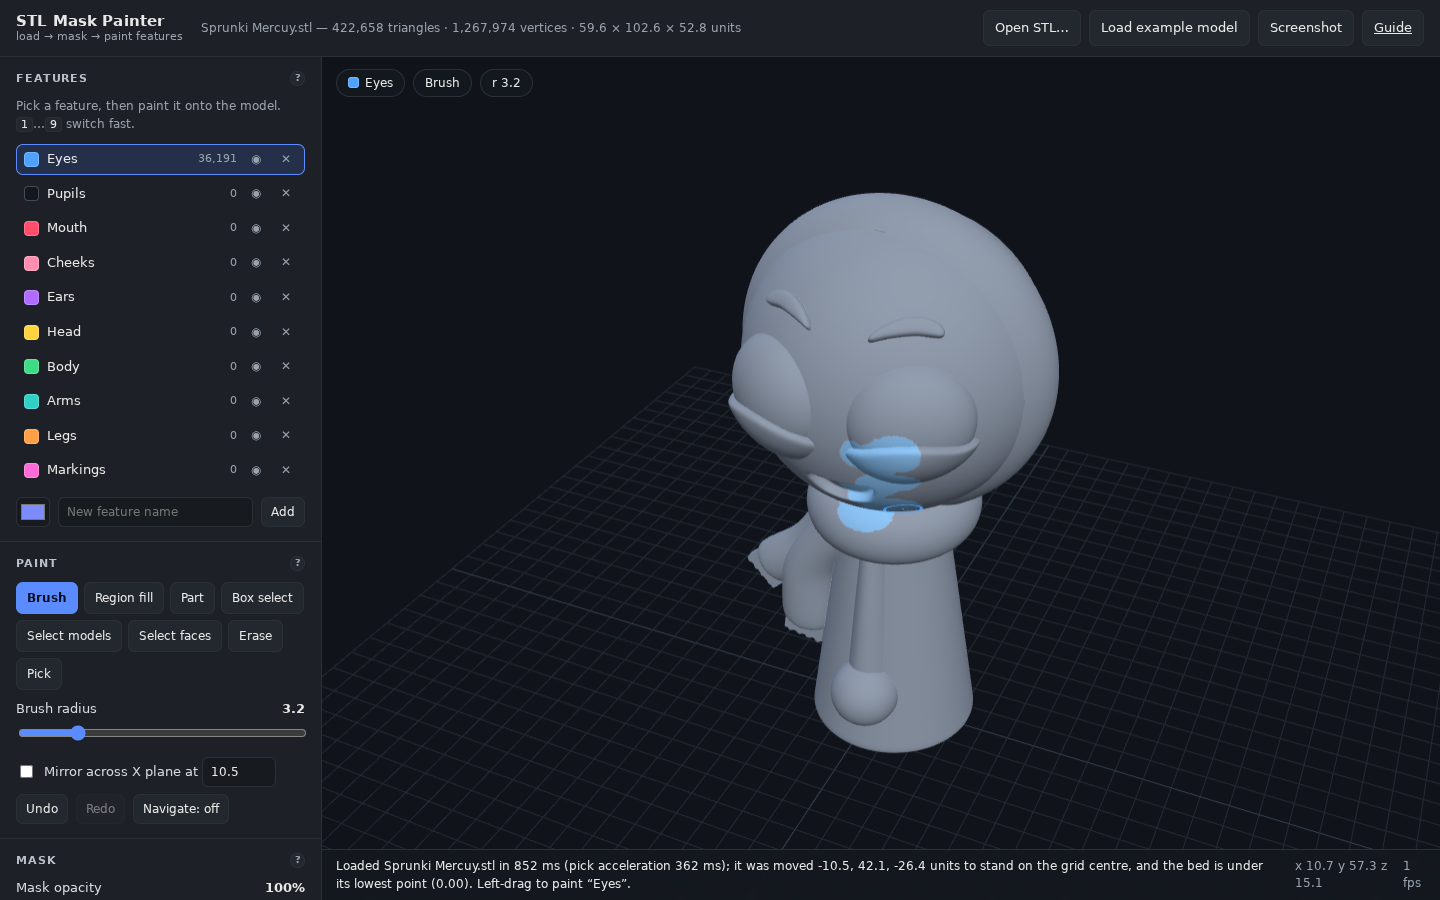
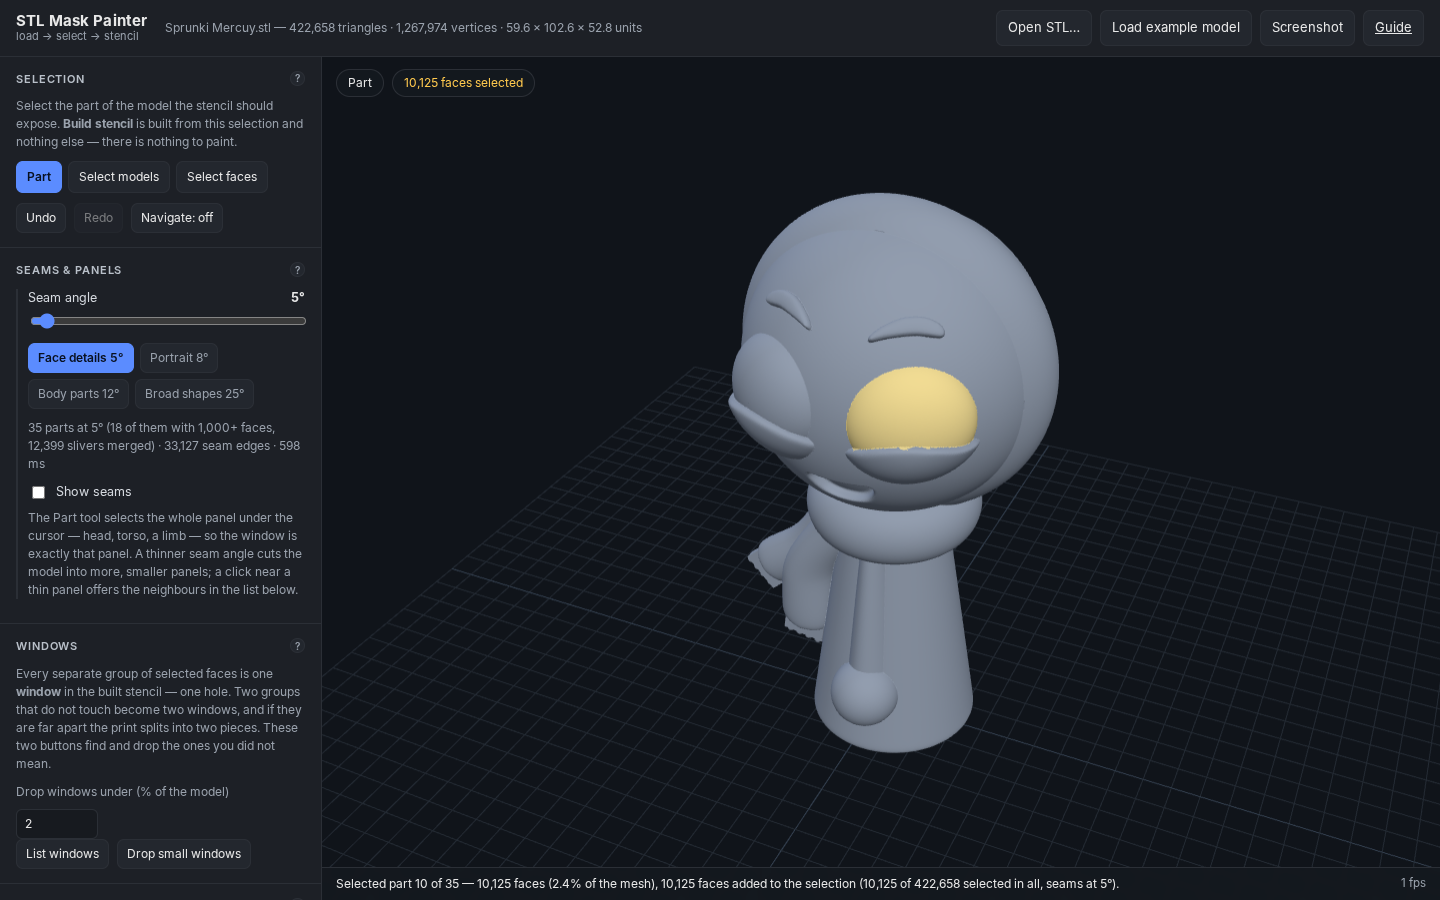
Stop Part drawing the face under the cursor, and refresh the front page
The report: "when in Part mode the triangles should not light up under mouse
movement". Part takes a whole panel, so a triangle outlined under a cursor that
is about to take a head or a limb describes a click Part is not going to make.
The hover outline belongs to the Select tool now: onPointerMove draws it there
and clears it in Part, and setTool clears it on the way into Part so one drawn
for the other tool cannot outlive it. Part keeps saying which panel it would
take — in the status bar and in the panel list its click opens.

The repository front page was showing the app as it was before the selection
redesign: mask-painter/screenshot.png was still the painting version, with the
FEATURES list, the brush and the palette, so the README showed an earlier app
while describing this one. It is now a screenshot of this code, taken headlessly
against the bundled model with a panel taken with Part, and the caption says so.

The documentation follows the new rule where it described the old one — the
selection panel in index.html, the selection sections of the guide, the manual's
drawing section, and VALIDATION's P1 and P5 — and the manual's window-trimming
example now quotes the numbers the current suite measures (two islands at 28.02
and 2.66 units, 261 corners released) instead of the paint version's dabs.

🤖 Generated with Codebuff

diff --git a/mask-painter/js/main.js b/mask-painter/js/main.js
@@ -389,9 +389,13 @@ function onPointerMove(e) {
   }
   const hit = viewer.pick(e.clientX, e.clientY);
   // The face under the cursor is outlined before the click, so "the face under the cursor" is
-  // something you can see rather than something you have to believe — and it is outlined whichever
-  // selection tool is in hand, because both of them are aiming at a face.
-  updateHoverFace(hit ? hit.faceIndex : null);
+  // something you can see rather than something you have to believe — while the Select tool is in
+  // hand, which is the tool that clicks a face. Part does not draw it: Part takes a whole panel, so
+  // one triangle lighting up under a cursor that is about to take a head or a limb describes the
+  // wrong click. Part says what it will take in the status line and in the panel list instead, and
+  // a tint left over from the Select tool is taken off screen rather than left to be misread.
+  if (state.tool === 'select') updateHoverFace(hit ? hit.faceIndex : null);
+  else clearHoverFace();
   el('statusCursor').textContent = hit
     ? state.tool === 'part'
       ? `face ${fmt(hit.faceIndex)} — click to select the panel it belongs to`
@@ -670,6 +674,9 @@ function syncToolButtons() {
  */
 function setTool(tool) {
   state.tool = tool === 'part' ? 'part' : 'select';
+  // The hover tint belongs to the Select tool, so it goes with it: a face outlined under a cursor
+  // in Part mode is a triangle lighting up for a tool that does not click triangles.
+  if (state.tool !== 'select') clearHoverFace();
   syncToolButtons();
   el('seamOptions').classList.toggle('on', state.tool === 'part');
   el('selectOptions').classList.toggle('on', state.tool === 'select');
@@ -877,6 +884,9 @@ function renderShellList() {
  * face. A file with one model has nothing to choose between, so nothing is highlighted there and
  * the panel says so instead — a whole-model highlight on a one-model file is a screenful of tint
  * that means nothing.
+ *
+ * Reached from the Select tool only (`onPointerMove`), because it is a *face* being judged: Part's
+ * unit is a panel, which the click itself reports.
  */
 function updateHoverFace(faceIndex) {
   if (!mask || faceIndex == null || faceIndex < 0 || faceIndex >= faceCountInHand()) {

diff --git a/mask-painter/help.html b/mask-painter/help.html
@@ -312,8 +312,12 @@
     at all.
   </p>
   <p>
-    The selection is drawn as an amber tint over the model's own surface, and the triangle under the
-    cursor is outlined white, so a click is judged before it happens. Above 150,000 selected faces
+    The selection is drawn as an amber tint over the model's own surface, and — while
+    <b>Select faces</b> is the tool in hand — the triangle under the cursor is outlined white, so a
+    click on a triangle is judged before it happens. <b>Part</b> draws nothing under the cursor: a
+    panel is not a triangle, so a triangle lighting up under a click that is about to take a head
+    or a limb would describe the wrong click. Part says which panel it will take in the status bar
+    and in <a href="#parts">the panel list</a> its click opens. Above 150,000 selected faces
     the tint is switched off rather than crawling — the panel's count line says so, and
     <a href="#tint">Selection tint</a> is where the overlay itself is turned down.
   </p>
@@ -585,7 +589,7 @@ Panels within 3.2 units of the click; click one to select it instead:
   <p>
     With <b>Select faces</b> (<kbd>Shift</kbd>+<kbd>S</kbd>), a click picks the one triangle under
     the cursor and nothing else. The face under the cursor is tinted white and the picked faces
-    yellow while this tool is up, so "click the face you can see" means something on a surface that is
+    amber while this tool is up, so "click the face you can see" means something on a surface that is
     otherwise one unbroken grey: turn on <b>Show seams</b> in the
     <a href="#parts">Part tool's</a> options as well if you want the panel boundaries drawn
     at the same time. This is the tool for geometry that is not a separate model — a spure, a

diff --git a/mask-painter/index.html b/mask-painter/index.html
@@ -56,8 +56,10 @@
           selection is not a tool's private state.
         </p>
         <p class="hint">
-          What is selected is tinted amber; the triangle under the cursor is outlined white, so a
-          click is judged before it happens. Click to select and again to unselect,
+          What is selected is tinted amber, and — while <b>Select faces</b> is the tool in hand — the
+          triangle under the cursor is outlined white, so a click on a triangle is judged before it
+          happens. <b>Part</b> outlines nothing: it takes the whole panel the click lands on, which
+          the status bar names. Click to select and again to unselect,
           <kbd>Shift</kbd>-click adds, <kbd>Alt</kbd>-click takes one off, <kbd>Ctrl</kbd>+<kbd>A</kbd>
           takes the lot, <kbd>Esc</kbd> clears it.
         </p>

diff --git a/mask-painter/README.md b/mask-painter/README.md
@@ -77,7 +77,7 @@ it.
 
 | Tool | What it does | Shortcut |
 | --- | --- | --- |
-| Part | Selects the whole panel of the model under the cursor, bounded by its seams — a head, a torso, a limb. Every click also lists the panels near the cursor (size and distance), which is how a thin or hidden panel is reached when the click lands next to it | `P` |
+| Part | Selects the whole panel of the model under the cursor, bounded by its seams — a head, a torso, a limb. Every click also lists the panels near the cursor (size and distance), which is how a thin or hidden panel is reached when the click lands next to it. Nothing is drawn under the cursor in this tool: it takes a panel, not a triangle, and the status bar and the list say which one | `P` |
 | Select models | The pick is the whole model (the separate shell) under the cursor, so **Remove selected** can take a stray one out of the file. A drag picks every model its rectangle covers | `S` |
 | Select faces | The pick is one triangle at a time, or a rectangle's worth of them. The selected triangles are tinted amber and the one under the cursor is outlined white, so a click is judged before it happens | `Shift`+`S` |
 
@@ -159,8 +159,10 @@ out of the model:
   for a triangle is its **centre** and its own normal, so a box over the face of a closed figure
   takes the front and reports how many triangles it left facing away — `facesInScreenRect()` in
   `js/boxselect.js`, checked against three.js' own `project()` for the centre pixel.
-- **What is selected is drawn as a filled tint** (amber for the selection, white for the face under
-  the cursor), with the boundary of the selected faces outlined on top. The tint is what makes a
+- **What is selected is drawn as a filled tint** (amber for the selection, and — while **Select
+  faces** is in hand — white for the face under the cursor), with the boundary of the selected faces
+  outlined on top. The cursor's own tint is the *face* tool's because a face is what it is judging;
+  **Part** leaves the cursor unpainted and reports the panel it would take in words instead. The tint is what makes a
   single selected face visible: edges alone z-fight with the triangle they trace and show nothing at
   all. It stays lit whatever tool is in hand, because the selection is shared by every tool and is
   what **Build stencil** and **Remove selected** act on — hiding it merely because the tool changed
@@ -302,7 +304,9 @@ An STL has no UVs, so the selection is drawn **per vertex** rather than as a tex
   a renderer ignored vertex alpha.
 - The face under the cursor is drawn as its own highlight by `js/highlight.js`, which takes the
   group to draw into as an argument — that is what lets the whole path (draw, replace, clear) run
-  under Node in `test/select.test.mjs` rather than only in a browser.
+  under Node in `test/select.test.mjs` rather than only in a browser. It is drawn by the **Select**
+  tool only: `onPointerMove` calls `updateHoverFace` in that tool and `clearHoverFace` in Part, and
+  `setTool` clears it on the way into Part so a face outlined for one tool cannot outlive it.
 - Colour updates are uploaded with `BufferAttribute.addUpdateRange`, so a selection that changes a
   few faces re-uploads only the changed slice of the colour buffer instead of the whole 20 MB
   attribute. Above 150,000 selected faces the tint is switched off and the panel says so; the
@@ -418,27 +422,30 @@ of the model's diagonal (2% by default, 0–100) compared with each window's **b
 because a speck is a size on the print, not a vertex count — the same speck is 40 vertices on a
 coarse mesh and 4,000 on a dense one.
 
-The trim is one undo step, like every other mask edit, and it always keeps the largest window,
-so a threshold set too high can shrink a mask to its main region but never wipe it out (the
-status bar says when it was spared). On the bundled figure a chest blob with two stray dabs is
-three islands at 27.2, 2.0 and 1.9 units across; the default threshold releases the two dabs —
-429 vertices, exactly the vertices inside them and nothing else — in one ~60 ms pass.
+The trim is one undo step, like every other edit to the selection, and it always keeps the largest
+window, so a threshold set too high can shrink the selection to its main region but never wipe it
+out (the status bar says when it was spared). On the bundled figure a panel selected on the chest
+with one stray speck of triangles near it is two islands, **28.02** and **2.66** units across; the
+default threshold releases the speck — 87 faces, 261 corners, exactly the corners inside it and
+nothing else — in one undo step, all measured in `test/cleanup.test.mjs`.
 
 **A threshold can only say "smaller than this", and only about whole windows.** It skips the
-largest and it cannot split anything, so a mask that is *one* connected region has nothing it
+largest and it cannot split anything, so a selection that is *one* connected region has nothing it
 can ever release, whatever it is set to: two panels that touch (a Shift-click on the panel next
-to the selected one — 552,231 vertices at 90.8 units across on the bundled figure, measured in
-`test/cleanup.test.mjs`), a stroke back and forth, a region fill. That is what **List windows**
+to the selected one — 552,231 corners at 90.8 units across on the bundled figure, measured in
+`test/cleanup.test.mjs`), two eyes picked separately that meet in the middle, a rectangle dragged
+into the neighbour it already had. That is what **List windows**
 is for. It lists every window with its vertex count, its size in units and as a share of
 the model, each row carrying:
 
-- **Remove** — releases that window, the largest included; the row's `fileVertices` (the mask's
-  own indices, joined to the window through the weld) are exactly what the edit releases.
+- **Remove** — releases that window, the largest included; the row's `fileVertices` (the
+  selection's own indices, joined to the window through the weld) are exactly what the edit
+  releases.
 - **Keep only** — releases every other window, which is how you keep one panel out of several.
 
 Both are one undo step, and the list rebuilds itself from what is left, so the numbers on screen
-are the numbers in the mask. The list is hidden the moment the mask changes — every row names
-the vertices behind it — so it never describes a mask that no longer exists. When a threshold
+are the numbers in the selection. The list is hidden the moment the selection changes — every row
+names the corners behind it — so it never describes a selection that no longer exists. When a threshold
 can do nothing the status bar says so in those words and names the two things that can, instead
 of reporting zero and looking like a dead button.
 

diff --git a/mask-painter/VALIDATION.md b/mask-painter/VALIDATION.md
@@ -228,10 +228,18 @@ is about 43% of the mesh and the bar adds the sentence naming the smaller panel 
 aimed at (`the detail you aimed at is probably Part <n> …`), because a click can only ever select the
 panel it lands on. The selected triangles are tinted amber, the stats line counts them, and nothing
 is added to the mesh or the file.
+
+Nothing lights up under the cursor while **Part** is the tool in hand. A panel is not a triangle, so
+a triangle outlined under a cursor that is about to take a head or a limb describes the wrong click:
+Part names the panel it would take in the status bar and in the list the click opens, and the white
+outline under the cursor belongs to **Select faces** (P5). Switching from Select faces to Part takes
+that outline off screen rather than leaving the last one drawn — a face still lit up in Part mode is
+the report this rule answers.
 **Guide** [Selection](help.html#selection) · [Seam panels](help.html#parts)
 **Automated** `test/parts.test.mjs` — the seam rule on a cube with a known answer, then every face of
 one part on the real model, and a real raycast through a real camera reporting the model's own
-triangle order.
+triangle order. `test/ui-wiring.test.mjs` — the pointer move draws the hover face in the Select tool
+and clears it in Part, and `setTool` clears it on the way into Part, so no path can leave one lit.
 **Result** ☐ pass ☐ fail — notes:
 
 #### P2 · Shift-click and Alt-click add and remove panels
@@ -294,7 +302,8 @@ the markup and the guide.
    back off with <kbd>Alt</kbd>.
 3. Watch the status bar and the stats line.
 
-**Expected** One triangle is tinted per click and the status bar says `Selected face <i> of 422,658 —
+**Expected** The triangle under the cursor is outlined white while this tool is in hand, so the click
+is judged before it happens. One triangle is tinted per click and the status bar says `Selected face <i> of 422,658 —
 <n> selected in all. Shift-click adds, Alt-click takes one off, “Select all” takes the lot.` A second
 plain click on the same triangle unselects it; <kbd>Shift</kbd> adds without ever flipping,
 <kbd>Alt</kbd> removes. The stats line counts the faces and the corners inside the window.

diff --git a/README.md b/README.md
@@ -15,7 +15,11 @@ picked with **Select faces** build one stencil together.
 
 ### [Open the app](https://bradman85.github.io/stl-mask-painter/)
 
-<img src="mask-painter/screenshot.png" alt="The app with the bundled example model loaded and the eyes selected" width="900">
+<img src="mask-painter/screenshot.png" alt="The app with the bundled example model loaded and one panel selected with the Part tool, tinted amber" width="900">
+
+The app with the bundled model loaded and one panel taken with **Part** — seams cut at 5°, the
+selection tinted amber, and the status bar naming the panel it took. It is a screenshot of this
+code, taken in a browser rather than drawn.
 
 That link is this repository, served by **GitHub Pages** — the app is a static site with no build
 step and no dependencies to install, so it runs in any browser, on any device, and every push to
@@ -48,7 +52,7 @@ only thing that wants `npm ci` (they use the vendored copies in `mask-painter/ve
 
 | | |
 | --- | --- |
-| [`mask-painter/README.md`](mask-painter/README.md) | the full manual: tools, the mask, stencils, exports, and the why behind them |
+| [`mask-painter/README.md`](mask-painter/README.md) | the full manual: the tools, the selection, stencils, exports, and the why behind them |
 | [`mask-painter/help.html`](mask-painter/help.html) | the same material as the in-app guide (**Guide** in the top bar) |
 | [`mask-painter/VALIDATION.md`](mask-painter/VALIDATION.md) | the checklist every feature is verified against, item by item |
 | `mask-painter/test/` | the automated half: nine suites, run with `cd mask-painter && npm test` |
